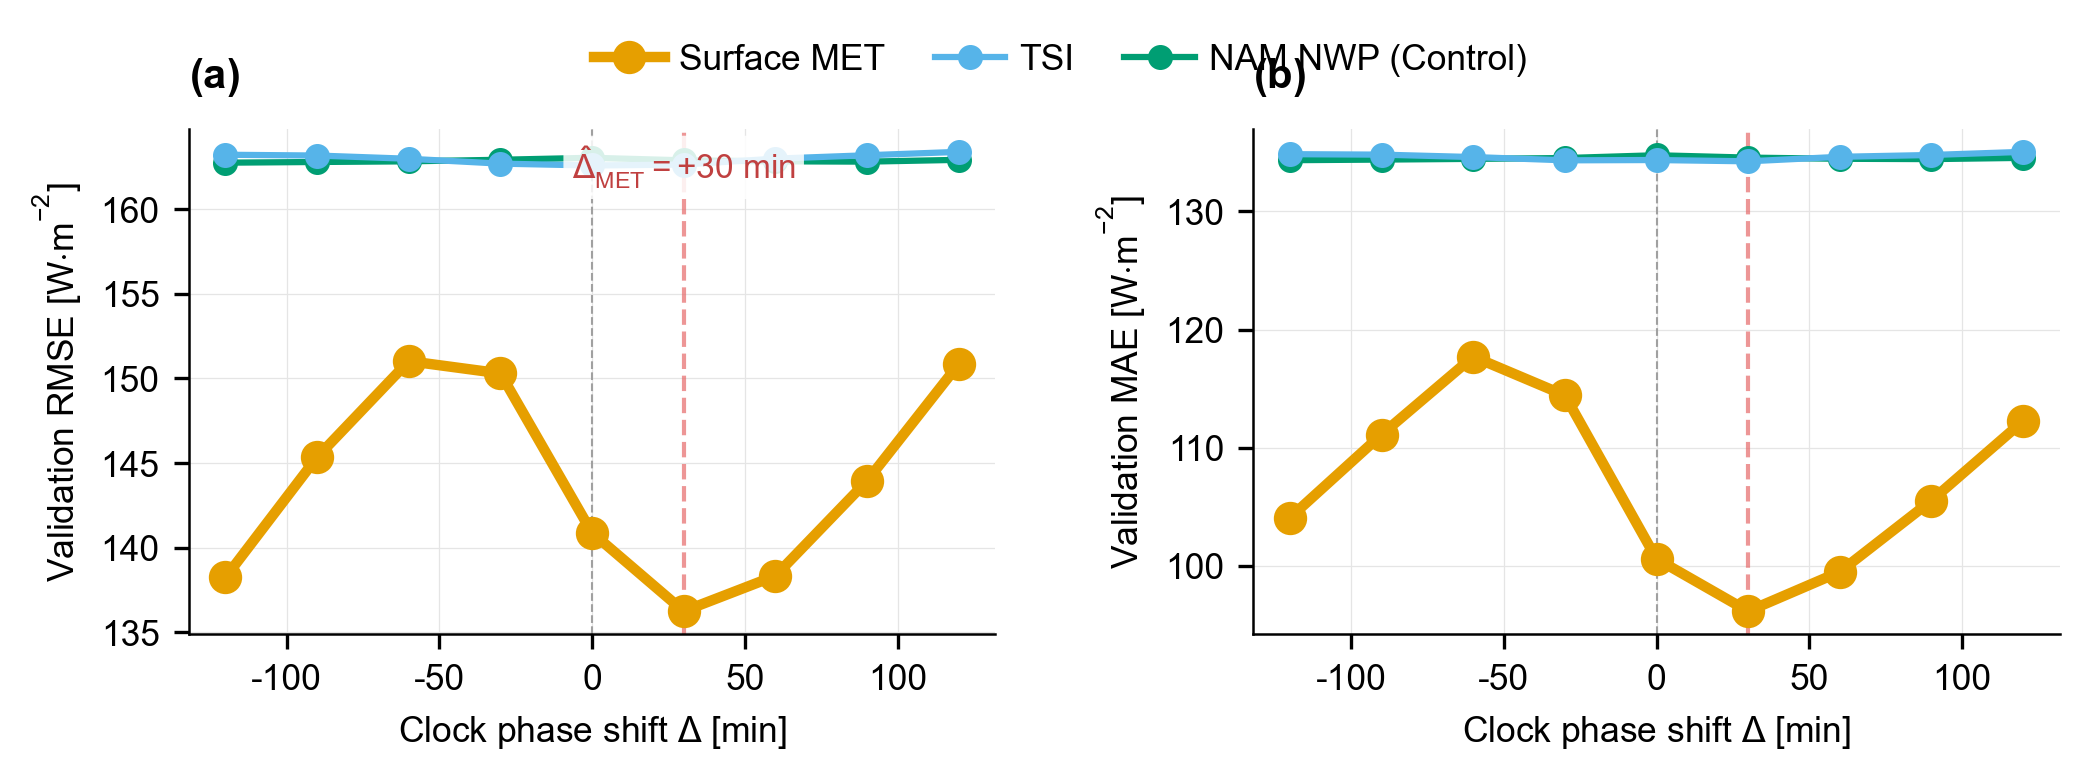
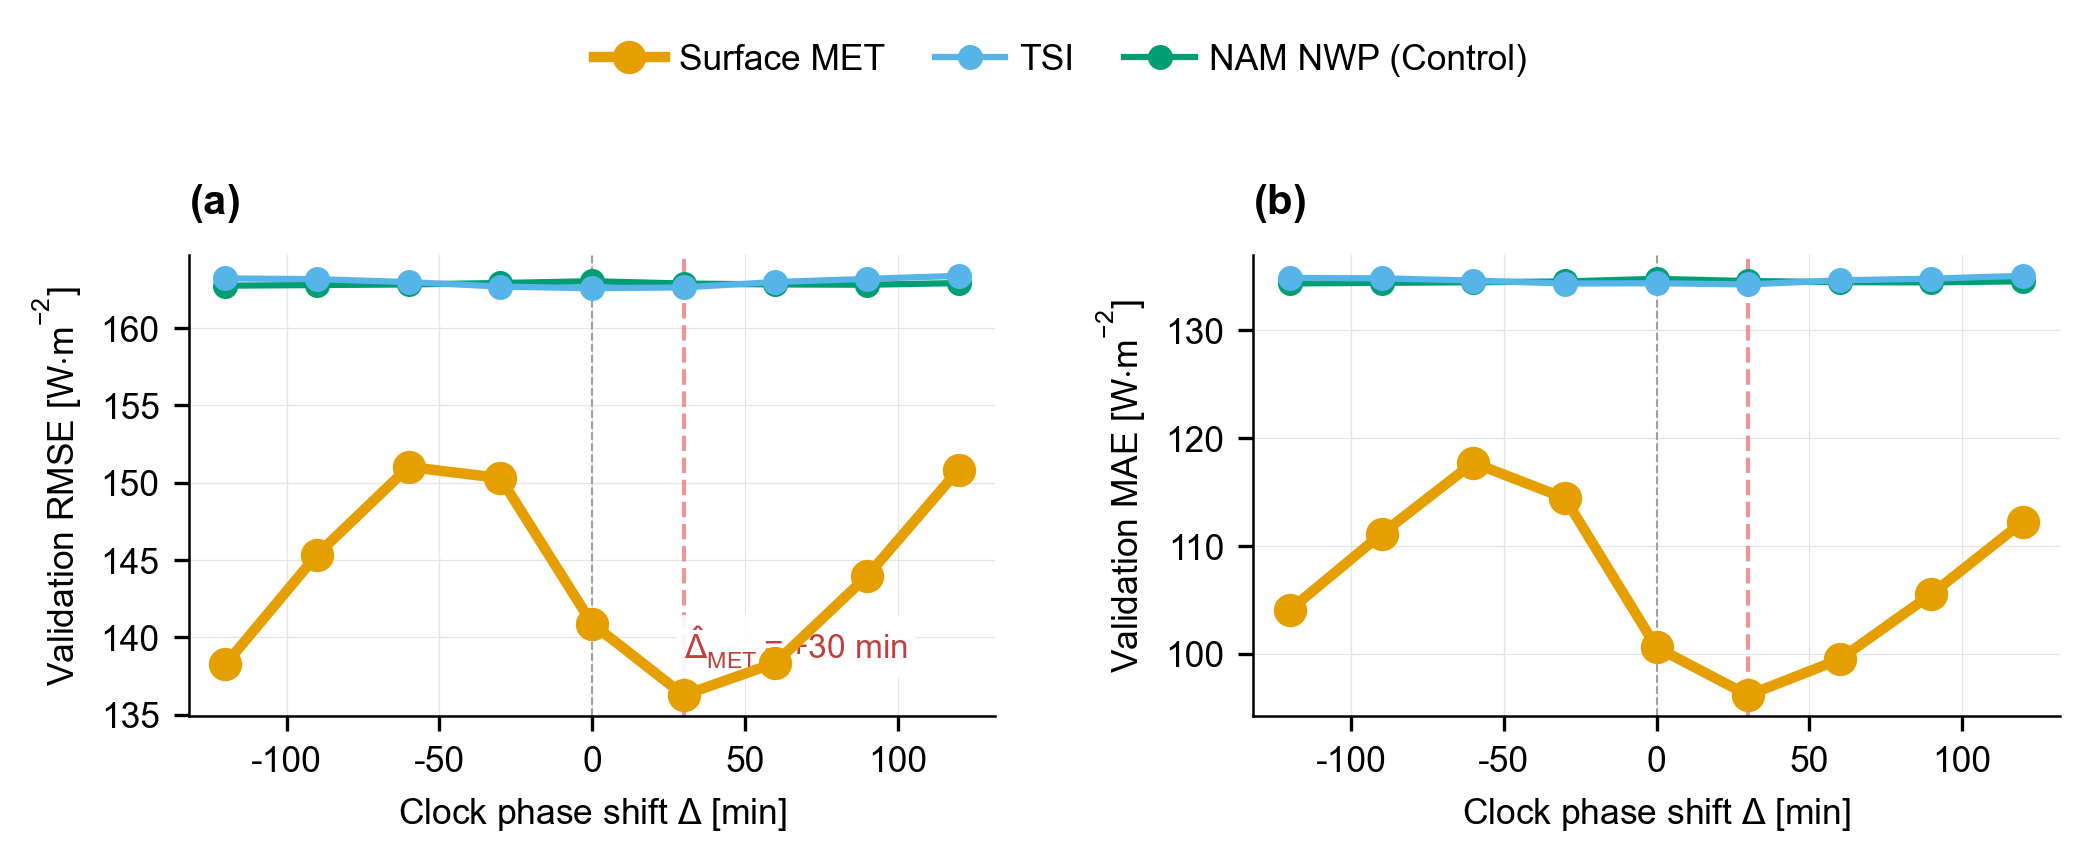
viz(essd-fig8): legend lifted fully above the (a)/(b) titles (axes top 0.80, legend anchored lower-center at 1.00); Delta-hat annotation moved to the data-free lower band, left-aligned beside the +30 min line

diff --git a/scripts/plot_essd_fig8_phase.py b/scripts/plot_essd_fig8_phase.py
@@ -79,7 +79,7 @@ OUT = _REPO_ROOT / "figures_essd" / "fig8_phase_response"
 def main() -> int:
     res = pd.read_csv(RESULTS)
     fig, axes = plt.subplots(1, 2, figsize=(WIDTH_MM * mm, HEIGHT_MM * mm))
-    plt.subplots_adjust(wspace=0.32, left=0.09, right=0.97, top=0.86, bottom=0.17)
+    plt.subplots_adjust(wspace=0.32, left=0.09, right=0.97, top=0.80, bottom=0.17)
 
     for ax, metric, title in ((axes[0], "rmse", r"$\mathbf{(a)}$"),
                               (axes[1], "mae", r"$\mathbf{(b)}$")):
@@ -102,16 +102,17 @@ def main() -> int:
         ax.spines["top"].set_visible(False)
         ax.spines["right"].set_visible(False)
 
-    # Annotate the discovered systematic delay above the +30 min line (once,
-    # on the left panel where the V-shape minimum is most visible).
+    # Annotate the discovered systematic delay in the EMPTY lower band of the
+    # left panel (below the V-shape minimum, clear of every curve — the MET
+    # minimum at ~136 sits high; the floor below 145 is data-free).
     ax0 = axes[0]
     ymin, ymax = ax0.get_ylim()
-    ax0.text(BEST_MET_DELTA, ymax - 0.03 * (ymax - ymin),
+    ax0.text(BEST_MET_DELTA, ymin + 0.10 * (ymax - ymin),
              r"$\hat{\Delta}_{\mathrm{MET}} = +30$ min",
-             ha="center", va="top", fontsize=TEXT_SIZE_PT - 0.5,
+             ha="left", va="bottom", fontsize=TEXT_SIZE_PT - 0.5,
              color="#C04040",
              bbox=dict(boxstyle="round,pad=0.25", facecolor="white",
-                       edgecolor="none", alpha=0.85))
+                       edgecolor="none", alpha=0.9))
 
     # Single-row horizontal legend floating ABOVE both panels (no occlusion).
     handles, labels = axes[0].get_legend_handles_labels()
@@ -119,7 +120,7 @@ def main() -> int:
     label_to_handle = dict(zip(labels, handles))
     ordered = [label_to_handle[MOD_LABELS[g]] for g in order]
     fig.legend(ordered, [MOD_LABELS[g] for g in order],
-               ncol=3, loc="upper center", bbox_to_anchor=(0.5, 1.02),
+               ncol=3, loc="lower center", bbox_to_anchor=(0.5, 1.00),
                frameon=False, handletextpad=0.4, columnspacing=1.4)
 
     OUT.parent.mkdir(parents=True, exist_ok=True)
